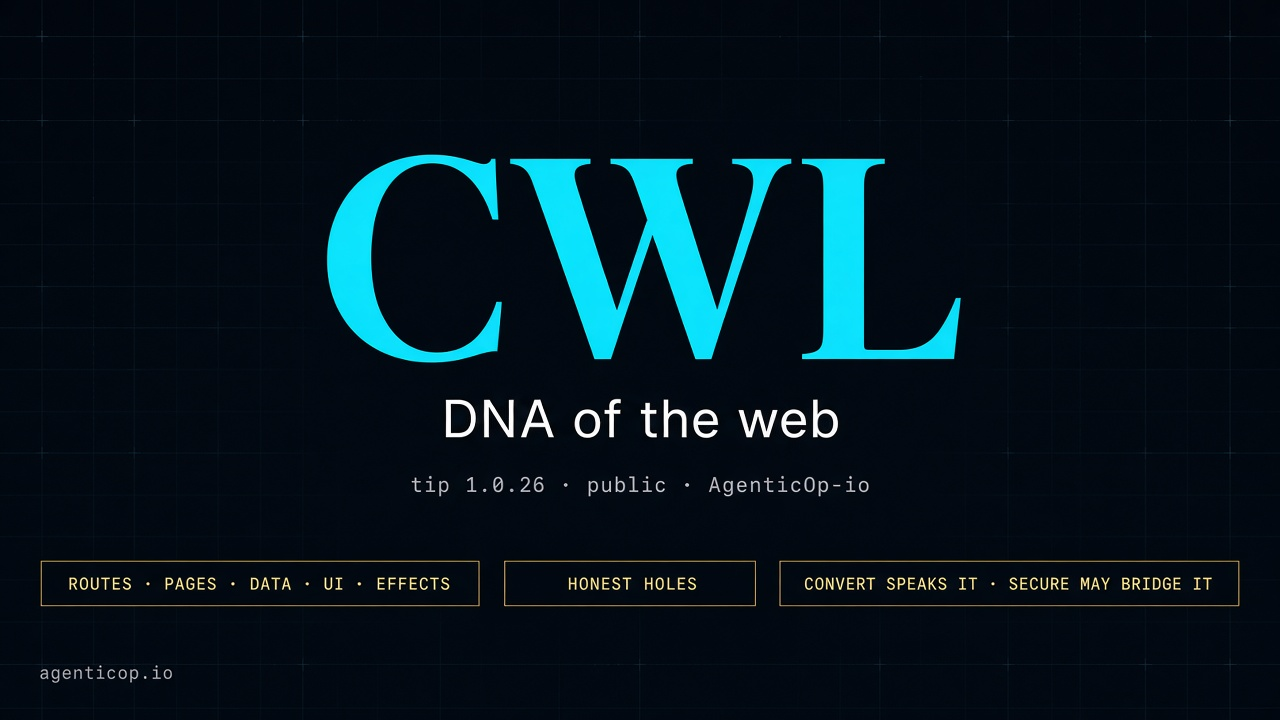
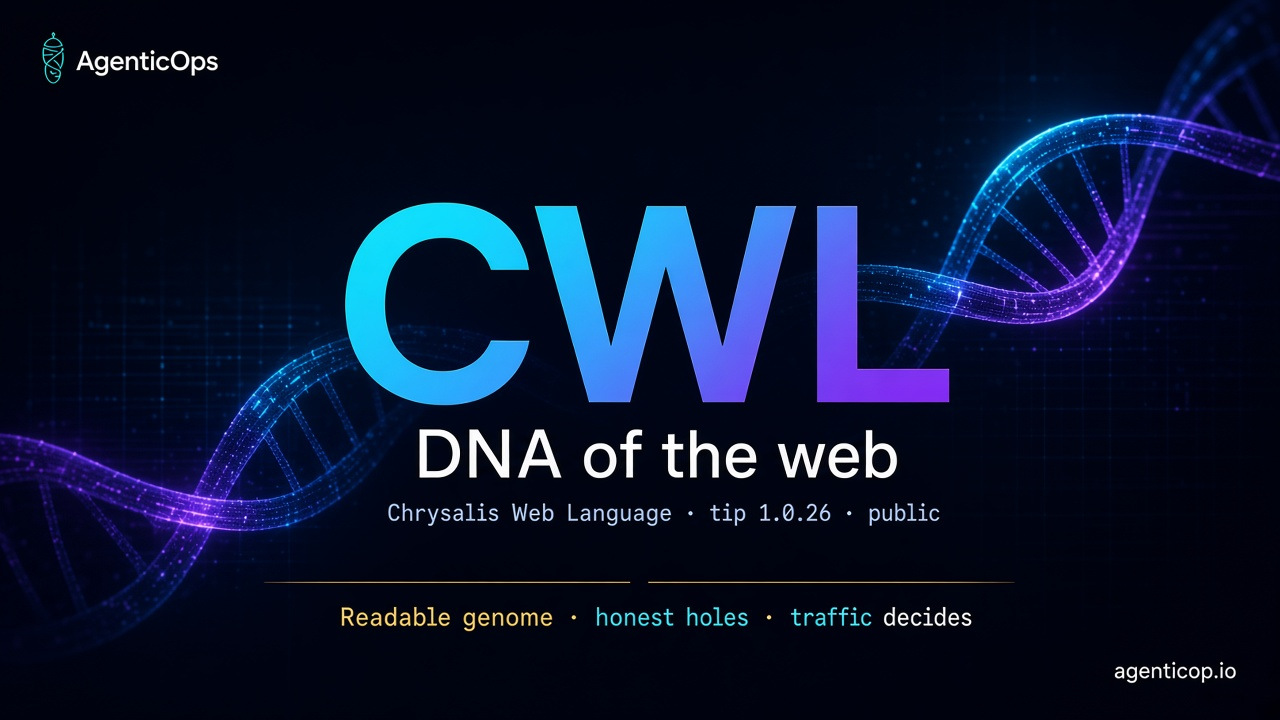
docs(marketing): refresh CWL LinkedIn release image
Keep the LinkedIn release asset in sync with the site copy.

diff --git a/docs/marketing/LINKEDIN-CWL-RELEASE.md b/docs/marketing/LINKEDIN-CWL-RELEASE.md
@@ -14,7 +14,7 @@ Chrysalis Web Language is the DNA of the web — a readable genome for what an a
 
 routes · pages · data · UI · effects · **honest holes** when a claim is unsafe
 
-Tip **1.0.26** is open under AgenticOp-io (Apache-2.0). Convert speaks it. Secure may bridge it. Neither owns the grammar. Recorded traffic decides what ships.
+Tip **1.0.26** is open under AgenticOp-io (Apache-2.0). Convert and Secure consume it — they do not redefine it. Recorded traffic decides what ships.
 
 https://github.com/AgenticOp-io/chrysalis-cwl  
 https://agenticop.io/chrysalis.html
